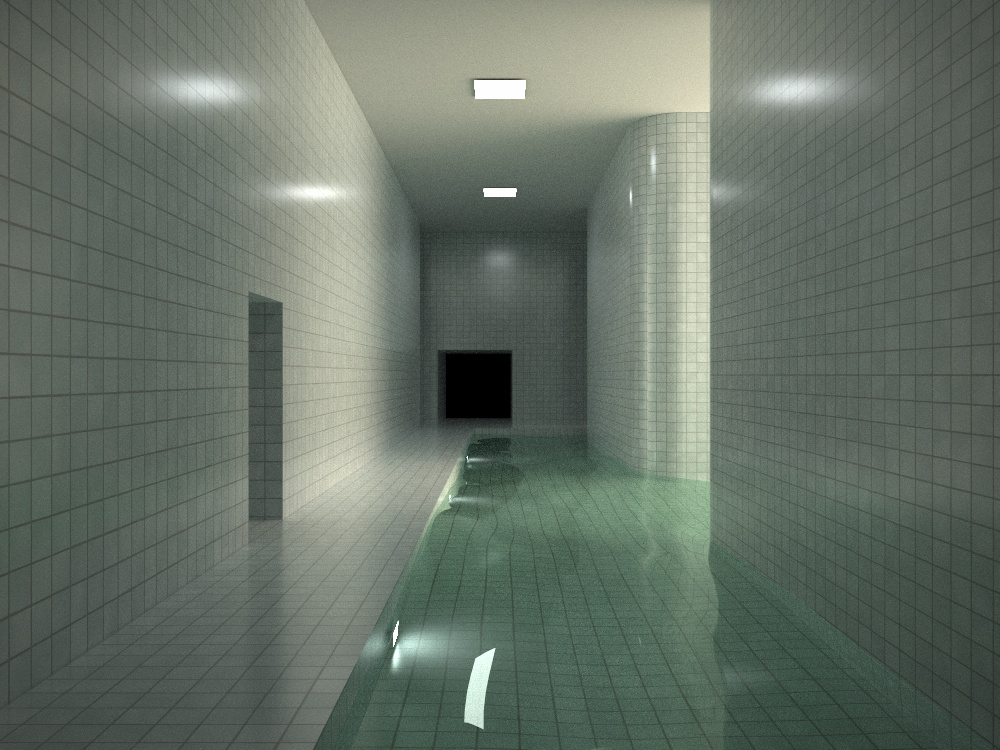
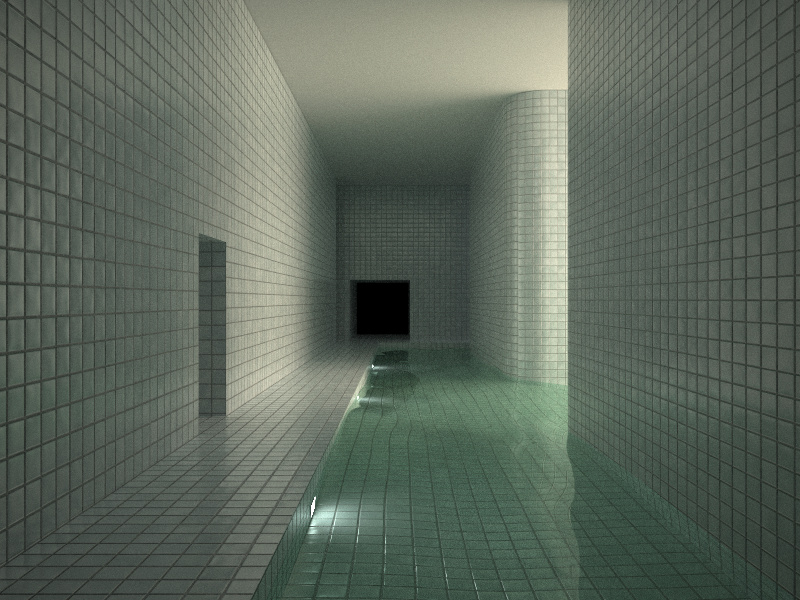
update images

diff --git a/src/scene/scene.cpp b/src/scene/scene.cpp
@@ -210,6 +210,16 @@ void Scene::load_mtl(const auto &material, Primitive *prim,
 
 /* --- gltf --- */
 
+inline void calc_tangent(const Vertex &v0, const Vertex &v1, const Vertex &v2,
+                         Vec3 *tangent, Vec3 *bitangent) {
+  Vec3 dp1 = v1.position - v0.position, dp2 = v2.position - v0.position;
+  double duv1_u = v1.uv.u - v0.uv.u, duv2_u = v2.uv.u - v0.uv.u;
+  double duv1_v = v1.uv.v - v0.uv.v, duv2_v = v2.uv.v - v0.uv.v;
+
+  *tangent = normalize(dp1 * duv2_v - dp2 * duv1_v);
+  *bitangent = normalize(dp2 * duv1_u - dp1 * duv2_u);
+}
+
 void Scene::load_gltf(const std::string &filename, const std::string &dir_path,
                       const double scale, const Vec3 &tr) {
   tg3_parse_options tg_options;
@@ -460,10 +470,20 @@ void Scene::load_gltf(const std::string &filename, const std::string &dir_path,
       load_gltf_normal_map(tg_model, tg_prim, &normal_map);
 
       for (uint32_t tidx = 0; tidx < triangle_verts.size() / 3; tidx++) {
+        if (!has_tangent) {
+          Vec3 tangent, bitangent;
+          calc_tangent(triangle_verts[tidx * 3], triangle_verts[tidx * 3 + 1],
+                       triangle_verts[tidx * 3 + 2], &tangent, &bitangent);
+
+          for (uint8_t vi = 0; vi < 3; vi++) {
+            triangle_verts[tidx * 3 + vi].tangent = tangent;
+            triangle_verts[tidx * 3 + vi].bitangent = bitangent;
+          }
+        }
+
         std::unique_ptr<Shape> shape = std::make_unique<Triangle>(
             triangle_verts[tidx * 3], triangle_verts[tidx * 3 + 1],
-            triangle_verts[tidx * 3 + 2],
-            has_tangent ? normal_map.get() : nullptr);
+            triangle_verts[tidx * 3 + 2], normal_map.get());
 
         Primitive prim =
             Primitive(shape.get(), bxdf.get(), emission, primitives.size());

diff --git a/src/scene/primitive.h b/src/scene/primitive.h
@@ -135,11 +135,10 @@ private:
   inline Vec3 get_normal_from_uv(const Vec2 &geom_uv,
                                  const Vec2 &texcoord) const {
     if (normal_map) {
-      Vec3 w = normalize(tlerp<Vec3>(p.normal, q.normal, r.normal, texcoord));
-      Vec3 u =
-          normalize(tlerp<Vec3>(p.tangent, q.tangent, r.tangent, texcoord));
+      Vec3 w = normalize(tlerp<Vec3>(p.normal, q.normal, r.normal, geom_uv));
+      Vec3 u = normalize(tlerp<Vec3>(p.tangent, q.tangent, r.tangent, geom_uv));
       Vec3 v = normalize(
-          tlerp<Vec3>(p.bitangent, q.bitangent, r.bitangent, texcoord));
+          tlerp<Vec3>(p.bitangent, q.bitangent, r.bitangent, geom_uv));
       Vec3 map_col = normal_map->get_color(texcoord) * 2. - 1.;
 
       return normalize(u * map_col.x + v * map_col.y + w * map_col.z);

diff --git a/src/scene/lobby.cpp b/src/scene/lobby.cpp
@@ -18,6 +18,7 @@ constexpr double LOBBY_WALL_TEX_LEN = 4;
 constexpr double LOBBY_CEILING_TEX_LEN = 40;
 
 void Scene::model_lobby() {
+  // Random rnd(5);
   Random rnd(0);
   Point3 floor_minp(LOBBY_TOTAL_WIDTH * -0.5, 0, LOBBY_TOTAL_WIDTH * -0.5);
   Point3 floor_maxp =

diff --git a/src/main.cpp b/src/main.cpp
@@ -1,3 +1,3 @@
 #include "renderer/renderer.h"
 
-int main() { Renderer renderer = Renderer("settings/fromage.json"); }
+int main() { Renderer renderer = Renderer("settings/test-setting.json"); }

diff --git a/README.md b/README.md
@@ -3,6 +3,8 @@
 
 <img src="images/lobby1.jpg"/>
 
+<img src="images/poolroom1.jpg"/>
+
 ## Features
 
 - Unidirectional pathtracing with MIS
@@ -35,13 +37,13 @@ cmake --build build --config Release
 ```
 
 ## Gallery
-<img src="images/cornell-sphere.jpg" width=60% height=60%/>
+<img src="images/cornell-sphere.jpg" width=70% height=70%/>
 
-<img src="images/lobby2.jpg" width=60% height=60%/>
+<img src="images/lobby2.jpg" width=70% height=70%/>
 
-<img src="images/poolroom1.jpg" width=60% height=60%/>
+<img src="images/poolroom2.jpg" width=70% height=70%/>
 
-<img src="images/fromage.jpg" width=60% height=60%/>
+<img src="images/fromage.jpg" width=70% height=70%/>
     
 > Model: [Cannelle & Fromage](https://github.com/LuxCoreRender/LuxCoreTestScenes) by Charles Nandeya Ehouman (Sharlybg)
 
